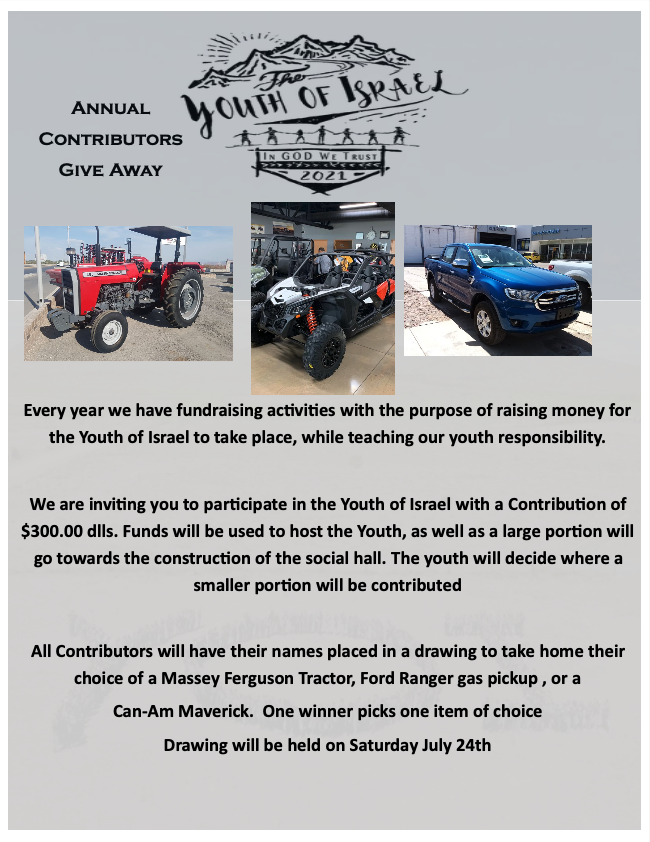
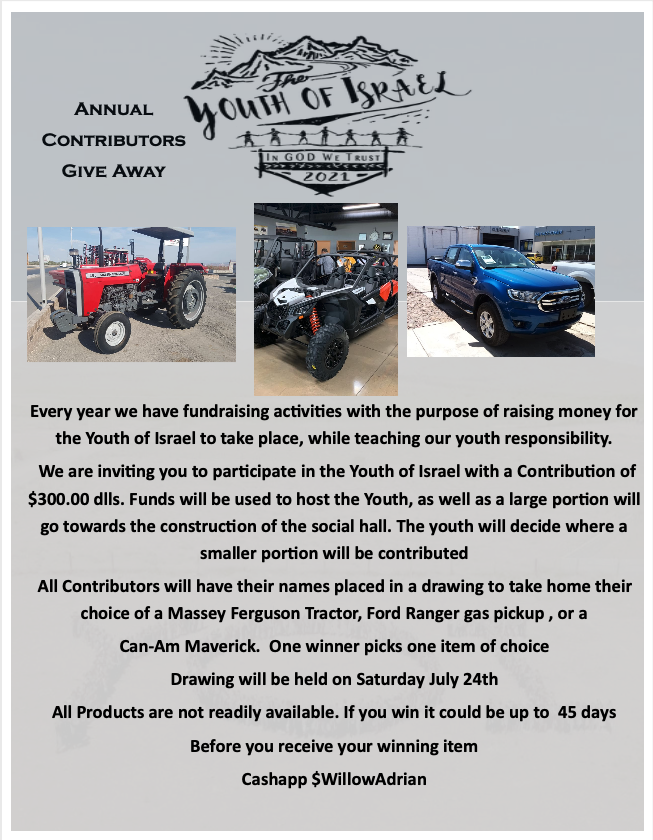
changed image and date for lebaron galeana

Changed region(s): [[0.0, 0.0, 0.9846, 0.9905], [0.0615, 0.1238, 0.2769, 0.2167]]

diff --git a/ContributorsGiveAway.html b/ContributorsGiveAway.html
@@ -36,7 +36,7 @@
     <img src="/images/CGA.png" alt="picture of prizes" width="100%" height="100%">
   </div> 
   <H1> <a href="https://api.whatsapp.com/send?phone=52 16361129080"target="_blank" class="whatsappLink">Contact William Lebaron <i class="fab fa-whatsapp"></i></a>
-   <H2>Accepting contributions on the community owned platform <a href="https://lebarongaleana.com/">LebaronGaleana</a> Starting July 21st  </H2> 
+   <H2>Accepting contributions on the community owned platform <a href="https://lebarongaleana.com/">LebaronGaleana</a> Starting July 18th, you can use the cash app above starting now  </H2> 
   
   </H1> 
 </body>
